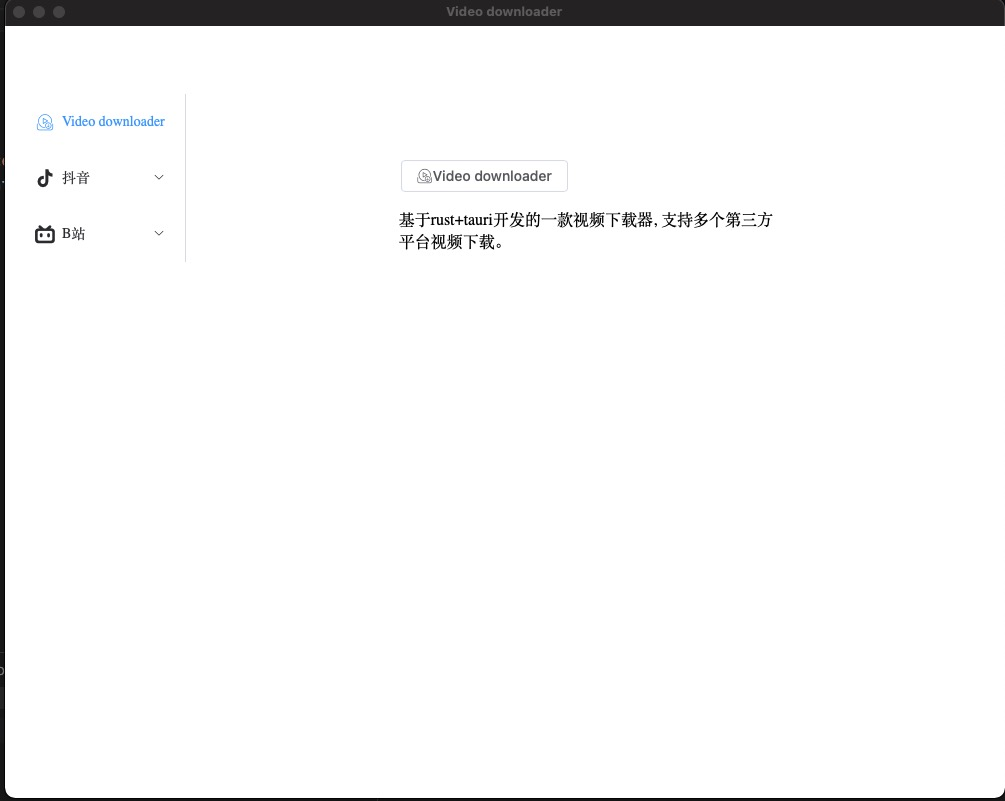
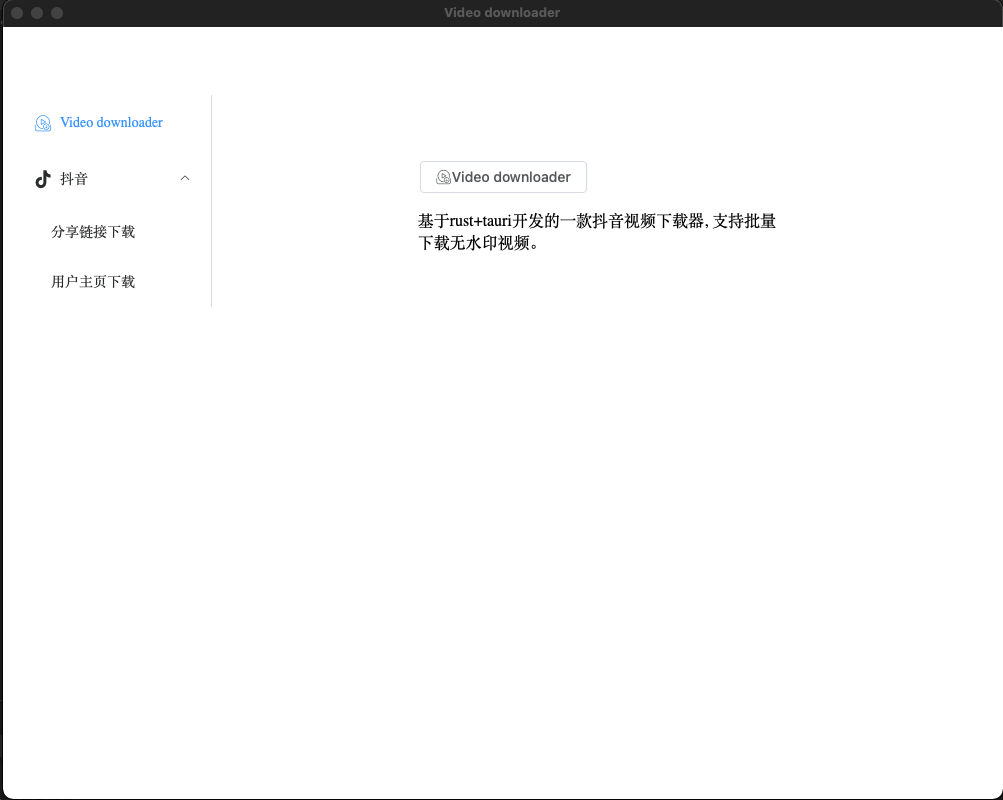
update readme

diff --git a/src/views/Home.vue b/src/views/Home.vue
@@ -14,7 +14,7 @@ const onClick = () => {
                <el-button @click="onClick"><el-icon class="ali-icon-shipinxiazai"></el-icon>Video downloader</el-button>
             </el-row>
             <el-row>
-                <p>基于rust+tauri开发的一款视频下载器, 支持多个第三方平台视频下载。</p>
+                <p>基于rust+tauri开发的一款抖音视频下载器, 支持批量下载无水印视频。</p>
             </el-row>
         </el-col>
     </div>

diff --git a/src/components/MenuBar.vue b/src/components/MenuBar.vue
@@ -13,14 +13,6 @@
             <el-menu-item index="/douyin/single">分享链接下载</el-menu-item>
             <el-menu-item index="/douyin/muplite">用户主页下载</el-menu-item>      
     </el-sub-menu>
-
-    <el-sub-menu index="2">
-            <template #title>
-            <el-icon class="ali-icon-bilibili"></el-icon>
-            <span>B站</span>
-            </template>
-    </el-sub-menu>
-
   </el-menu>
 
 </template>

diff --git a/README.md b/README.md
@@ -64,11 +64,6 @@ $ npm install
 - [x] Download/preview a single video in a table.
 
 
-### Bilibili
-
-- [ ] General content download (Web|TV|App)
-
-
 ## Screenshot
 
 ![index](./docs/imgs/index.png)

diff --git a/README_cn.md b/README_cn.md
@@ -60,10 +60,6 @@ $ npm install
 - [x] 下载/预览表格中某个视频。
 
 
-### Bilibili
-
-- [ ] 普通内容下载(Web|TV|App)
-
 
 ## 截图
 
